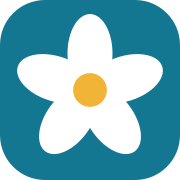
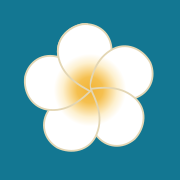
プルメリアのアイコンを花のマークに替え、背景に水彩の花を薄く敷く
- ファビコンとapple-touch-iconを、5枚の花びらが風車状に重なる花のマークに差し替える（写真はなぞらず一から描画）
- 各ページ最初のサンドの帯（ヤシの影の帯を除く）に、水彩のプルメリアを薄く表示する（不透明度 PC 20%・スマホ 16%、印刷では非表示）
- 背景の絵は Canva の画像生成で作り、白地を抜いてWebPにしたもの
- 料金グラフの凡例の色見本が、文字の折り返しで細くつぶれないようにする

diff --git a/src/styles/plumeria.css b/src/styles/plumeria.css
@@ -440,6 +440,22 @@
   .pl-sec-beige {
     background-color: var(--beige);
   }
+  /* 各ページの最初のサンドの帯（ヤシの影がある帯を除く）にだけ、水彩のプルメリアをうっすら敷く。
+     帯ごとに置くと花が多すぎるため1ページ1か所。絵は Canva の画像生成（2026-11-04）で作り、白地を抜いたもの */
+  .pl-sec-beige:not(.pl-sec-palm):not(.pl-sec-beige ~ .pl-sec-beige) { overflow: hidden; }
+  .pl-sec-beige:not(.pl-sec-palm):not(.pl-sec-beige ~ .pl-sec-beige)::before {
+    content: ''; position: absolute; z-index: 0; pointer-events: none;
+    top: -90px; right: -110px; width: clamp(260px, 34vw, 480px); aspect-ratio: 900 / 684;
+    background: url('/images/plumeria/decoration-bg.webp') no-repeat center / contain;
+    opacity: 0.2;
+  }
+  .pl-sec-beige:not(.pl-sec-palm):not(.pl-sec-beige ~ .pl-sec-beige) > .pl-wrap { position: relative; z-index: 1; }
+  @media (max-width: 600px) {
+    .pl-sec-beige:not(.pl-sec-palm):not(.pl-sec-beige ~ .pl-sec-beige)::before { top: -40px; right: -80px; opacity: 0.16; }
+  }
+  @media print {
+    .pl-sec-beige::before { display: none; }
+  }
   .pl-h2 {
     display: grid; justify-items: center; gap: 4px;
     text-align: center;
@@ -2367,7 +2383,7 @@ html:not([data-pl-text="large"]) { --pl-fs: 1.0625; }
 .pl-feechart-title { font-size: calc(16px * var(--pl-fs)); font-weight: 700; color: var(--ink); }
 .pl .pl-feechart-legend { margin-top: 6px; display: flex; flex-wrap: wrap; gap: 4px 18px; font-size: calc(14px * var(--pl-fs)); color: var(--ink); }
 .pl-feechart-legend > li { display: flex; align-items: center; gap: 6px; }
-.pl-feechart-swatch { width: 14px; height: 14px; border-radius: 3px; }
+.pl-feechart-swatch { flex: none; width: 14px; height: 14px; border-radius: 3px; }
 .pl-feechart [data-part="rent"] { background: var(--part-rent); }
 .pl-feechart [data-part="common"] { background: var(--part-common); }
 .pl-feechart [data-part="service"] { background: var(--part-service); box-shadow: inset 0 0 0 1px var(--green); }
